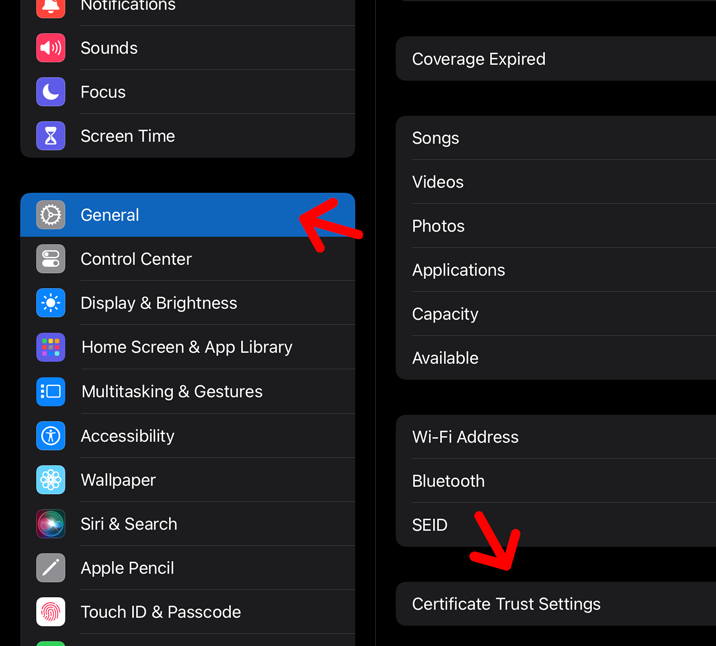
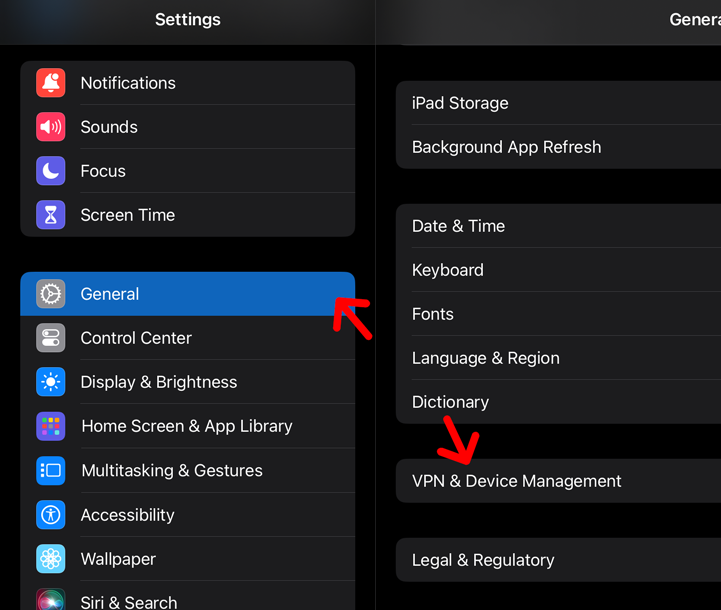
improve tutorial iOS

diff --git a/src/components/BaseMyGarageTutorial.vue b/src/components/BaseMyGarageTutorial.vue
@@ -86,7 +86,7 @@
         <div class="BaseMyGarageTutorial_TopicImage">
           <img src="/assets/tutorial/proxyman_1.png" alt="" style="max-width: 100%;">
         </div>
-        <div>3. Start VPN</div>
+        <div>3. Install VPN Extension, then Start VPN</div>
         <div class="BaseMyGarageTutorial_TopicImage">
           <img src="/assets/tutorial/proxyman_2.png" alt="" style="max-width: 100%;">
         </div>
@@ -110,7 +110,7 @@
         <div class="BaseMyGarageTutorial_TopicImage">
           <img src="/assets/tutorial/proxyman_7.png" alt="" style="max-width: 100%;">
         </div>
-        <div>9. General > Certificate Trust Settings</div>
+        <div>9. General > VPN & Device Management</div>
         <div class="BaseMyGarageTutorial_TopicImage">
           <img src="/assets/tutorial/proxyman_8.png" alt="" style="max-width: 100%;">
         </div>
